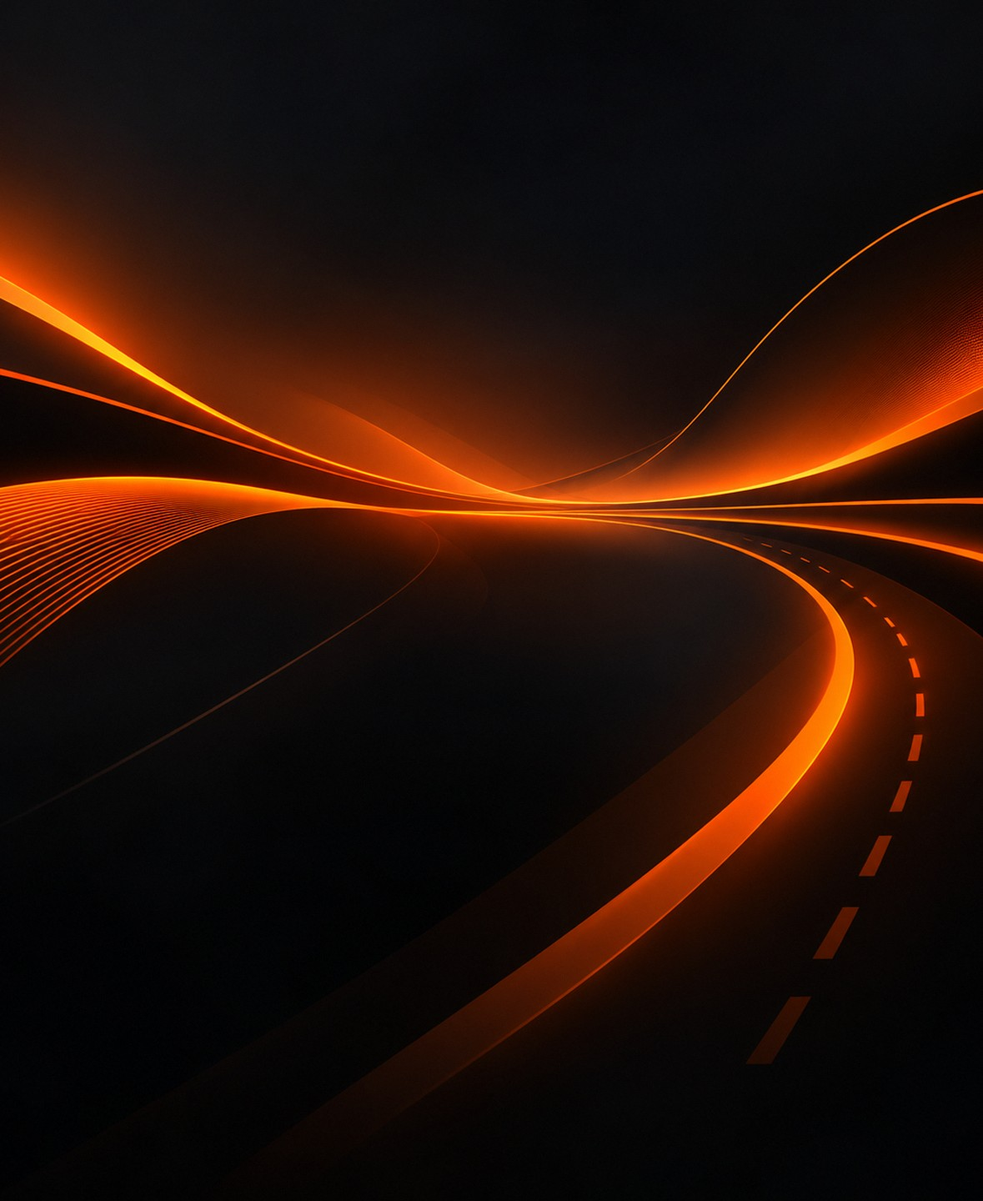
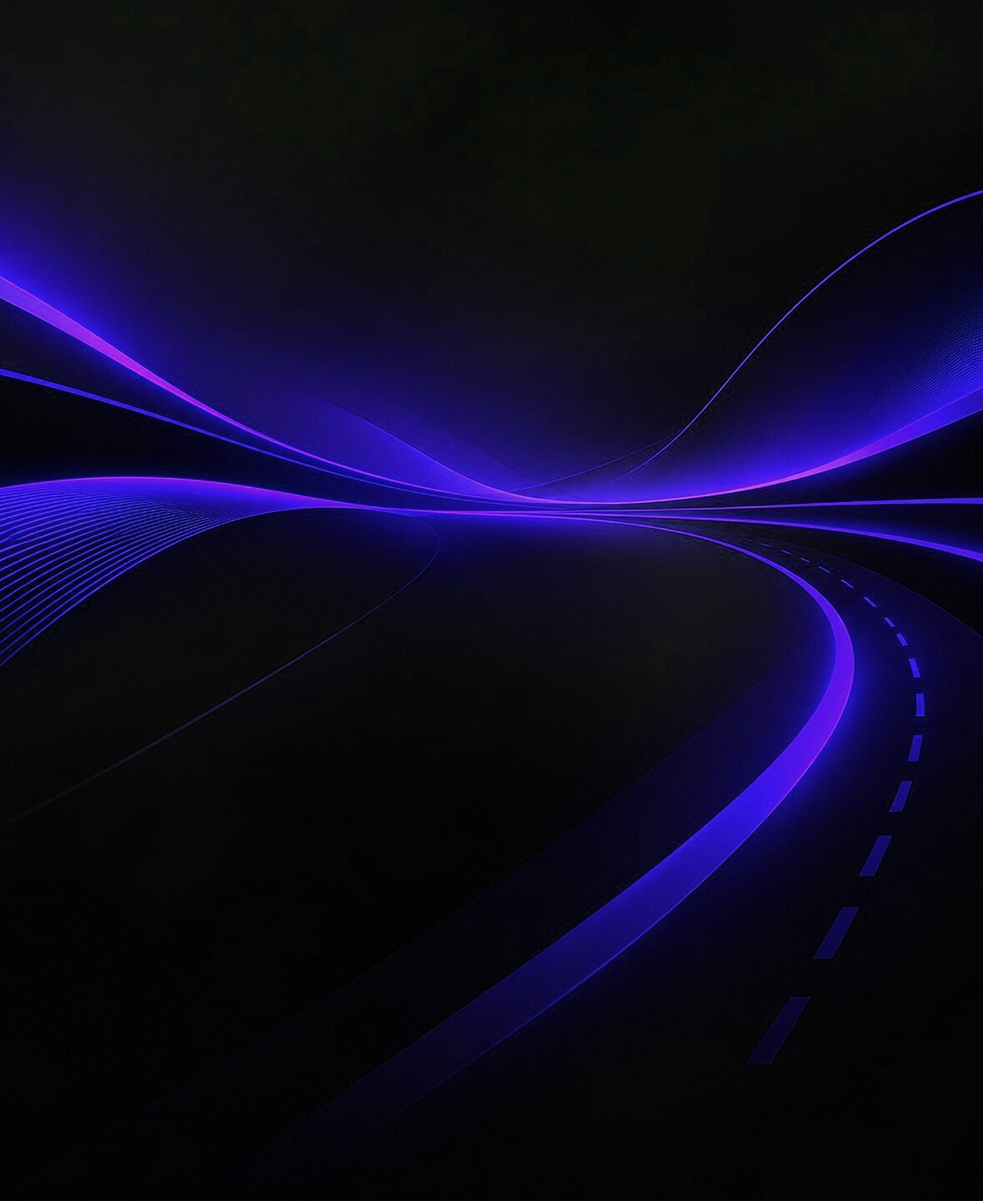
Farben der lila Vorlage in der ganzen App
Hauptlila #8C7AE6, Dunkellila #6D5BC9, Helllila #B4A8F4, Hintergrund #F4F2FC,
Kartenrand #E1DDF0, Text #2E2650, Sekundärtext #6E6888. Kein Orange mehr:
Signalfarbe, Verläufe, helle Farbwelt, Website-Akzent, fest eingetragene
Orangetöne, Lichtgrund und das Profil-Hintergrundbild (umgefärbt). Profilbild
ohne Foto lila, gesperrte Knöpfe lila-grau.

Claude-Session: https://claude.ai/code/session_01SLhREvuLjiee512FKLama7

diff --git a/theorie-app/src/components/live-quiz.tsx b/theorie-app/src/components/live-quiz.tsx
@@ -368,7 +368,7 @@ export function AntwortZeile({
   // Gewählt: ruhig – oranger Rand, leicht getönt, kein Leuchten und kein Hüpfen (die Zeile bleibt gleich groß).
   const gewaehlt = zustand === "gewaehlt";
   const rand = gewaehlt ? farben.orange : zustand === "richtig" || zustand === "verpasst" ? GRUEN : zustand === "falsch" ? ROT : "rgba(255,255,255,0.1)";
-  const grund = gewaehlt ? "rgba(252,91,14,0.14)" : zustand === "richtig" ? "rgba(78,208,83,0.1)" : zustand === "falsch" ? "rgba(255,90,78,0.1)" : "rgba(255,255,255,0.06)";
+  const grund = gewaehlt ? "rgba(140,122,230,0.14)" : zustand === "richtig" ? "rgba(78,208,83,0.1)" : zustand === "falsch" ? "rgba(255,90,78,0.1)" : "rgba(255,255,255,0.06)";
   const balken = balkenFarbe ?? (zustand === "richtig" || zustand === "verpasst" ? "rgba(78,208,83,0.28)" : zustand === "falsch" ? "rgba(255,90,78,0.24)" : "rgba(255,255,255,0.1)");
 
   return (
@@ -448,7 +448,7 @@ export function Erklaerung({ text }: { text: string }) {
   if (!text) return null;
   return (
     <View style={{ flexDirection: "row", gap: 12, paddingVertical: 2 }}>
-      <LinearGradient colors={["#FFB25C", "#FC5B0E"]} style={{ width: 3, borderRadius: 2 }} />
+      <LinearGradient colors={["#FFB25C", "#8C7AE6"]} style={{ width: 3, borderRadius: 2 }} />
       <View style={{ flex: 1, gap: 4 }}>
         <View style={{ flexDirection: "row", alignItems: "center", gap: 5 }}>
           <Icon name="bulb" size={13} color="#FFB27A" />
@@ -525,9 +525,9 @@ export function RanglistenZeile({ platz, name, bildPfad, farbe, punkte, wert, ic
         paddingLeft: 10,
         paddingRight: 14,
         borderRadius: 14,
-        backgroundColor: ich ? "rgba(252,91,14,0.15)" : "rgba(255,255,255,0.05)",
+        backgroundColor: ich ? "rgba(140,122,230,0.15)" : "rgba(255,255,255,0.05)",
         borderWidth: 1,
-        borderColor: ich ? "rgba(252,91,14,0.55)" : "rgba(255,255,255,0.07)",
+        borderColor: ich ? "rgba(140,122,230,0.55)" : "rgba(255,255,255,0.07)",
       }}
     >
       <Text style={{ ...schrift.textFett, width: 24, textAlign: "center", fontSize: 13.5, color: "rgba(255,255,255,0.65)" }}>{platz}</Text>
@@ -550,7 +550,7 @@ function DeinPlatz({ stand }: { stand: QuizStand }) {
         ))}
       </View>
       <View style={[{ borderRadius: 18 }, leuchten(farben.orange, 0.3, 14, 2)]}>
-        <LinearGradient colors={["rgba(252,91,14,0.24)", "rgba(252,91,14,0.08)"]} start={{ x: 0, y: 0 }} end={{ x: 1, y: 1 }} style={{ flexDirection: "row", alignItems: "center", gap: 12, paddingVertical: 10, paddingLeft: 10, paddingRight: 16, borderRadius: 18, borderWidth: 1, borderColor: "rgba(252,91,14,0.5)" }}>
+        <LinearGradient colors={["rgba(140,122,230,0.24)", "rgba(140,122,230,0.08)"]} start={{ x: 0, y: 0 }} end={{ x: 1, y: 1 }} style={{ flexDirection: "row", alignItems: "center", gap: 12, paddingVertical: 10, paddingLeft: 10, paddingRight: 16, borderRadius: 18, borderWidth: 1, borderColor: "rgba(140,122,230,0.5)" }}>
           <LinearGradient colors={verlauf.knopf} start={{ x: 0, y: 0 }} end={{ x: 1, y: 1 }} style={{ width: 40, height: 40, borderRadius: 20, alignItems: "center", justifyContent: "center" }}>
             <Text style={{ ...schrift.titel, fontSize: stand.platz > 99 ? 13 : 16, color: "#FFFFFF", fontVariant: ["tabular-nums"] }}>{stand.platz}</Text>
           </LinearGradient>
@@ -748,7 +748,7 @@ export function QuizZuschauerKarte({
 /** Kleine Pille „+12 XP“ fürs Mitspielen. */
 export function XpPille({ xp }: { xp: number }) {
   return (
-    <View style={{ flexDirection: "row", alignItems: "center", gap: 3, height: 24, paddingHorizontal: 9, borderRadius: 12, backgroundColor: "rgba(252,91,14,0.16)" }}>
+    <View style={{ flexDirection: "row", alignItems: "center", gap: 3, height: 24, paddingHorizontal: 9, borderRadius: 12, backgroundColor: "rgba(140,122,230,0.16)" }}>
       <Icon name="flash" size={12} color={farben.orange} />
       <Text style={{ ...schrift.textFett, fontSize: 12.5, color: farben.orange }}>+{xp} XP</Text>
     </View>
@@ -849,7 +849,7 @@ export function QuizGastgeberKarte({
                       zustand={!offen && richtig ? "richtig" : "offen"}
                       loesung={offen && richtig}
                       anteil={teilnehmer ? stimmen / teilnehmer : 0}
-                      balkenFarbe={offen ? "rgba(252,91,14,0.3)" : undefined}
+                      balkenFarbe={offen ? "rgba(140,122,230,0.3)" : undefined}
                       rechts={offen ? String(stimmen) : `${prozent(stimmen, teilnehmer)} %`}
                     />
                   );
@@ -921,7 +921,7 @@ function MiniBild({ frage }: { frage: Frage }) {
     );
   }
   return (
-    <View style={[kachel, { backgroundColor: "rgba(252,91,14,0.14)" }]}>
+    <View style={[kachel, { backgroundColor: "rgba(140,122,230,0.14)" }]}>
       <Icon name={themaVon(frage.thema).icon} size={20} color="#FF8A2A" />
     </View>
   );
@@ -997,7 +997,7 @@ export function QuizAuswahl({
       <KeyboardAvoidingView behavior={Platform.OS === "ios" ? "padding" : undefined} style={{ flex: 1, justifyContent: "flex-end" }}>
         <Pressable style={{ flex: 1 }} onPress={onSchliessen} accessibilityLabel="Schließen" />
         <View style={{ height: Math.round(height * 0.8), backgroundColor: "#0E1014", borderTopLeftRadius: 28, borderTopRightRadius: 28, borderWidth: 1, borderBottomWidth: 0, borderColor: "rgba(255,255,255,0.09)", overflow: "hidden" }}>
-          <LinearGradient pointerEvents="none" colors={["rgba(252,91,14,0.16)", "rgba(252,91,14,0)"]} style={{ position: "absolute", top: 0, left: 0, right: 0, height: 140 }} />
+          <LinearGradient pointerEvents="none" colors={["rgba(140,122,230,0.16)", "rgba(140,122,230,0)"]} style={{ position: "absolute", top: 0, left: 0, right: 0, height: 140 }} />
           <View style={{ alignSelf: "center", width: 38, height: 5, borderRadius: 3, backgroundColor: "rgba(255,255,255,0.22)", marginTop: 8 }} />
 
           {vorschau && vorschau.art === "auswahl" ? (

diff --git a/theorie-app/src/app/schilder-jagd.tsx b/theorie-app/src/app/schilder-jagd.tsx
@@ -85,7 +85,7 @@ function SchilderJagdHandy() {
         <GlasKarte style={{ borderRadius: 26 }}>
           <View style={{ padding: 18, gap: 16 }}>
             <View style={{ flexDirection: "row", alignItems: "center", gap: 14 }}>
-              <View style={{ width: 48, height: 48, borderRadius: 24, alignItems: "center", justifyContent: "center", backgroundColor: mitDeckkraft(komplett ? "#4ED053" : "#FC5B0E", f.hell ? 0.1 : 0.15) }}>
+              <View style={{ width: 48, height: 48, borderRadius: 24, alignItems: "center", justifyContent: "center", backgroundColor: mitDeckkraft(komplett ? "#4ED053" : "#8C7AE6", f.hell ? 0.1 : 0.15) }}>
                 {komplett ? <TrophyIcon size={24} color={gruen} weight="fill" /> : <CrosshairIcon size={24} color={f.orange} weight="fill" />}
               </View>
               <View style={{ flex: 1 }}>
@@ -132,7 +132,7 @@ function SchilderJagdHandy() {
               })}
             </View>
 
-            <Pressable onPress={scannen} accessibilityRole="button" accessibilityLabel="Schild scannen" style={({ pressed }) => [{ height: 54, borderRadius: 27, transform: [{ scale: pressed ? 0.98 : 1 }] }, leuchten("#FC5B0E", f.hell ? 0.3 : 0.45, 14, 4)]}>
+            <Pressable onPress={scannen} accessibilityRole="button" accessibilityLabel="Schild scannen" style={({ pressed }) => [{ height: 54, borderRadius: 27, transform: [{ scale: pressed ? 0.98 : 1 }] }, leuchten("#8C7AE6", f.hell ? 0.3 : 0.45, 14, 4)]}>
               <LinearGradient colors={verlauf.knopf} start={{ x: 0, y: 0.5 }} end={{ x: 1, y: 0.5 }} style={{ flex: 1, borderRadius: 27, flexDirection: "row", alignItems: "center", justifyContent: "center", gap: 10 }}>
                 <CameraIcon size={22} color="#FFFFFF" weight="fill" />
                 <Text style={{ ...schrift.textFett, fontSize: 16.5, color: "#FFFFFF" }}>Schild scannen</Text>
@@ -278,7 +278,7 @@ function SchilderJagdHandy() {
                 </View>
               </View>
               {stand.schilder[offen.key] ? (
-                <View style={{ flexDirection: "row", alignItems: "center", gap: 6, height: 28, paddingHorizontal: 12, borderRadius: 14, backgroundColor: mitDeckkraft("#FC5B0E", f.hell ? 0.1 : 0.16) }}>
+                <View style={{ flexDirection: "row", alignItems: "center", gap: 6, height: 28, paddingHorizontal: 12, borderRadius: 14, backgroundColor: mitDeckkraft("#8C7AE6", f.hell ? 0.1 : 0.16) }}>
                   <CheckCircleIcon size={15} color={f.orange} weight="fill" />
                   <Text style={{ ...schrift.textHalb, fontSize: 13, color: f.orange }}>Gefunden am {datumLang(new Date(stand.schilder[offen.key]))}</Text>
                 </View>
@@ -297,7 +297,7 @@ function SchilderJagdHandy() {
                 </T>
               </View>
               <View style={{ alignSelf: "stretch", flexDirection: "row", alignItems: "flex-start", gap: 12, padding: 14, borderRadius: 18, backgroundColor: f.hell ? "#F6F2EC" : "rgba(255,255,255,0.05)" }}>
-                <View style={{ width: 34, height: 34, borderRadius: 17, alignItems: "center", justifyContent: "center", backgroundColor: mitDeckkraft("#FC5B0E", f.hell ? 0.1 : 0.15) }}>
+                <View style={{ width: 34, height: 34, borderRadius: 17, alignItems: "center", justifyContent: "center", backgroundColor: mitDeckkraft("#8C7AE6", f.hell ? 0.1 : 0.15) }}>
                   <MapPinIcon size={18} color={f.orange} weight="fill" />
                 </View>
                 <View style={{ flex: 1, gap: 2 }}>

diff --git a/theorie-app/src/components/profil.tsx b/theorie-app/src/components/profil.tsx
@@ -114,7 +114,7 @@ export function Fuehrerscheinweg({
         style,
       ]}
     >
-      {f.hell ? null : <LinearGradient colors={["rgba(252,91,14,0.10)", "rgba(252,91,14,0)"]} locations={[0, 0.6]} style={FUELLEN} />}
+      {f.hell ? null : <LinearGradient colors={["rgba(140,122,230,0.10)", "rgba(140,122,230,0)"]} locations={[0, 0.6]} style={FUELLEN} />}
       <View style={{ flexDirection: "row", alignItems: "flex-start", paddingHorizontal: 18, paddingTop: 16 }}>
         <View style={{ flex: 1, gap: 3 }}>
           <Text style={{ ...schrift.titelFett, fontSize: 17, color: f.text }}>Dein Weg zum Führerschein</Text>
@@ -135,7 +135,7 @@ export function Fuehrerscheinweg({
           {meilensteine.map((s, k) => {
             const p = punktBei(lage[k]);
             return s.erreicht ? (
-              <Circle key={k} cx={p.x} cy={p.y} r={10} fill="#FC5B0E" stroke="#FFFFFF" strokeWidth={2} />
+              <Circle key={k} cx={p.x} cy={p.y} r={10} fill="#8C7AE6" stroke="#FFFFFF" strokeWidth={2} />
             ) : (
               <Circle key={k} cx={p.x} cy={p.y} r={9} fill={f.flaeche} stroke={f.hell ? "#B9BEC5" : "#5C636C"} strokeWidth={2} />
             );
@@ -170,8 +170,8 @@ export function Fuehrerscheinweg({
         })}
 
         {/* Das eigene Auto */}
-        <View pointerEvents="none" style={[{ position: "absolute", left: auto.x - 18, top: auto.y - 18, width: 36, height: 36, borderRadius: 18 }, leuchten("#FC5B0E", 0.6, 12, 0)]}>
-          <LinearGradient colors={["#FF9A3C", "#FC5B0E", "#E4470A"]} style={{ flex: 1, borderRadius: 18, borderWidth: 2, borderColor: "#FFFFFF", alignItems: "center", justifyContent: "center" }}>
+        <View pointerEvents="none" style={[{ position: "absolute", left: auto.x - 18, top: auto.y - 18, width: 36, height: 36, borderRadius: 18 }, leuchten("#8C7AE6", 0.6, 12, 0)]}>
+          <LinearGradient colors={["#FF9A3C", "#8C7AE6", "#E4470A"]} style={{ flex: 1, borderRadius: 18, borderWidth: 2, borderColor: "#FFFFFF", alignItems: "center", justifyContent: "center" }}>
             <Icon name="car" sf="car.fill" size={17} color="#FFFFFF" />
           </LinearGradient>
         </View>
@@ -203,7 +203,7 @@ export function Medaillen({ medaillen, onPress, umbrechen }: { medaillen: Medail
           style={({ pressed }) => ({ width: 96, alignItems: "center", gap: 8, paddingTop: 6, transform: [{ scale: pressed ? 0.95 : 1 }] })}
         >
           {m.erreicht ? (
-            <View style={[{ width: 70, height: 70, borderRadius: 35 }, leuchten("#FC5B0E", f.hell ? 0.3 : 0.5, 12, 3)]}>
+            <View style={[{ width: 70, height: 70, borderRadius: 35 }, leuchten("#8C7AE6", f.hell ? 0.3 : 0.5, 12, 3)]}>
               <LinearGradient colors={["#FFC065", "#FC6A14", "#D8430A"]} locations={[0, 0.55, 1]} style={{ flex: 1, borderRadius: 35, alignItems: "center", justifyContent: "center" }}>
                 <View style={{ position: "absolute", top: 4, left: 4, right: 4, bottom: 4, borderRadius: 31, borderWidth: 1.5, borderColor: "rgba(255,255,255,0.45)" }} />
                 <Icon name={m.icon} size={29} color="#FFFFFF" />

diff --git a/theorie-app/src/lib/theme.ts b/theorie-app/src/lib/theme.ts
@@ -22,14 +22,15 @@ export const farben = {
 
   // Orange aus der Vorlage gemessen: kräftiges Rot-Orange für Knöpfe, Ring
   // und Tab-Leiste, wärmeres Orange für Punkte, Balken und Flamme.
-  orange: "#FC5B0E",
-  orangeHell: "#F97A1A",
-  orangeTief: "#F8470D",
-  orangeSoft: "rgba(252,91,14,0.15)",
-  orangeLinie: "rgba(252,91,14,0.6)",
-  orangeDunkel: "#2A1A0B",
+  // Hauptfarbe ist Lila (Name „orange“ bleibt, damit alle Stellen sie finden).
+  orange: "#8C7AE6",
+  orangeHell: "#B4A8F4",
+  orangeTief: "#6D5BC9",
+  orangeSoft: "rgba(140,122,230,0.16)",
+  orangeLinie: "rgba(140,122,230,0.6)",
+  orangeDunkel: "#1F1B45",
   aufOrange: "#FFFFFF",
-  flamme: "#FC6F14",
+  flamme: "#8C7AE6",
 
   blau: "#4DA3FF",
   blauSoft: "rgba(77,163,255,0.14)",
@@ -69,21 +70,21 @@ export const farben = {
 /** Orange Verläufe, Element für Element aus der Vorlage gemessen. */
 export const verlauf = {
   /** Große Knöpfe, von oben nach unten: oben heller, unten tiefer. */
-  knopf: ["#FE7212", "#FC5D0D", "#F9490D"],
+  knopf: ["#9C8CEC", "#8C7AE6", "#7B68DA"],
   /** Heller Schein am linken Ende von „Lernen starten“, von links nach rechts. */
-  knopfSchein: ["rgba(255,150,60,0.68)", "rgba(255,150,60,0.4)", "rgba(255,150,60,0.06)", "rgba(255,150,60,0)"],
+  knopfSchein: ["rgba(180,168,244,0.6)", "rgba(180,168,244,0.35)", "rgba(180,168,244,0.06)", "rgba(180,168,244,0)"],
   /** Aktiver Filter-Chip, von links nach rechts. */
-  chip: ["#FC8A22", "#FC6C12", "#FC540B"],
+  chip: ["#9C8CEC", "#8C7AE6", "#7B68DA"],
   /** Aktives Segment, von links nach rechts. */
-  segment: ["#FD8A25", "#FC6619"],
+  segment: ["#9C8CEC", "#8C7AE6"],
   /** Fortschrittsbalken auf der Startseite, von links nach rechts. */
-  balken: ["#FB5412", "#FE6616"],
+  balken: ["#8C7AE6", "#9C8CEC"],
   /** Balken in den Kategorien, von links nach rechts. */
-  kategorie: ["#FC7822", "#FD711C"],
+  kategorie: ["#8C7AE6", "#9C8CEC"],
   /** Säulen im Diagramm, von oben nach unten. */
-  saeule: ["#FCA422", "#FE8E12", "#FC6A0C", "#F9570A"],
+  saeule: ["#B4A8F4", "#9C8CEC", "#8C7AE6", "#6D5BC9"],
   /** Großer Ring in der Statistik, von oben nach unten. */
-  ring: ["#FE8324", "#FD5406"],
+  ring: ["#9C8CEC", "#6D5BC9"],
 } as const;
 
 type Gewicht = "400" | "500" | "600" | "700" | "800";

diff --git a/theorie-app/src/app/einstellungen.tsx b/theorie-app/src/app/einstellungen.tsx
@@ -402,9 +402,9 @@ function DarstellungKachel({ art, aktiv, onPress }: { art: "dunkel" | "hell"; ak
       accessibilityRole="button"
       accessibilityState={{ selected: aktiv }}
       accessibilityLabel={dunkel ? "Nachtfahrt, dunkel" : "Tagfahrt, hell"}
-      style={({ pressed }) => [{ flex: 1, borderRadius: 22, transform: [{ scale: pressed ? 0.97 : 1 }] }, aktiv ? leuchten("#FC5B0E", f.hell ? 0.3 : 0.45, 12, 3) : null]}
+      style={({ pressed }) => [{ flex: 1, borderRadius: 22, transform: [{ scale: pressed ? 0.97 : 1 }] }, aktiv ? leuchten("#8C7AE6", f.hell ? 0.3 : 0.45, 12, 3) : null]}
     >
-      <View style={{ borderRadius: 22, overflow: "hidden", borderWidth: 2, borderColor: aktiv ? "#FC5B0E" : f.hell ? "rgba(20,23,27,0.08)" : "rgba(255,255,255,0.1)" }}>
+      <View style={{ borderRadius: 22, overflow: "hidden", borderWidth: 2, borderColor: aktiv ? "#8C7AE6" : f.hell ? "rgba(20,23,27,0.08)" : "rgba(255,255,255,0.1)" }}>
         {/* Mini-Vorschau der App in dieser Darstellung */}
         <LinearGradient colors={dunkel ? ["#1A2230", "#07090C"] : ["#FFFFFF", "#ECE6DC"]} style={{ height: 96, padding: 12, gap: 6 }}>
           <View style={{ flexDirection: "row", alignItems: "center", justifyContent: "space-between" }}>
@@ -422,7 +422,7 @@ function DarstellungKachel({ art, aktiv, onPress }: { art: "dunkel" | "hell"; ak
             <Text style={{ ...schrift.textHalb, fontSize: 14.5, color: f.text }}>{dunkel ? "Nachtfahrt" : "Tagfahrt"}</Text>
             <Text style={{ ...schrift.text, fontSize: 12, color: f.text3 }}>{dunkel ? "Dunkel" : "Hell"}</Text>
           </View>
-          <View style={{ width: 22, height: 22, borderRadius: 11, alignItems: "center", justifyContent: "center", backgroundColor: aktiv ? "#FC5B0E" : "transparent", borderWidth: aktiv ? 0 : 2, borderColor: f.hell ? "rgba(20,23,27,0.2)" : "rgba(255,255,255,0.25)" }}>
+          <View style={{ width: 22, height: 22, borderRadius: 11, alignItems: "center", justifyContent: "center", backgroundColor: aktiv ? "#8C7AE6" : "transparent", borderWidth: aktiv ? 0 : 2, borderColor: f.hell ? "rgba(20,23,27,0.2)" : "rgba(255,255,255,0.25)" }}>
             {aktiv ? <Icon name="checkmark" size={14} color="#FFFFFF" /> : null}
           </View>
         </View>

diff --git a/theorie-app/src/app/(tabs)/profil.tsx b/theorie-app/src/app/(tabs)/profil.tsx
@@ -151,7 +151,7 @@ function ProfilHandy() {
         { icon: "checkmark-circle", sf: "checkmark.circle.fill", farbe: "#4ED053", label: "Antworten", wert: tausender(gesamtZahlen.antworten), mini: { art: "balken", werte: letzteTage.map((t) => stand.antwortenTage[t] ?? 0) }, unter: "Letzte 7 Tage" },
         {
           icon: "flame",
-          farbe: "#FC6F14",
+          farbe: "#8C7AE6",
           label: "Beste Serie",
           wert: `${stand.besteSerie}`,
           einheit: stand.besteSerie === 1 ? "Tag" : "Tage",
@@ -192,7 +192,7 @@ function ProfilHandy() {
     <MenueZeile key="formeln" icon="calculator" farbe="#E0A100" titel="Formeln" unter="Anhalteweg & Co." onPress={() => router.push("/formeln")} />,
   ];
   const mehrZeilen = FRAGEN_AKTIV ? [
-    <MenueZeile key="fortschritt" icon="stats-chart" farbe="#FC5B0E" titel="Mein Fortschritt" unter="Statistiken, Stärken & Schwächen" onPress={() => router.push("/statistik")} />,
+    <MenueZeile key="fortschritt" icon="stats-chart" farbe="#8C7AE6" titel="Mein Fortschritt" unter="Statistiken, Stärken & Schwächen" onPress={() => router.push("/statistik")} />,
     <MenueZeile
       key="schilder"
       icon="camera"
@@ -224,7 +224,7 @@ function ProfilHandy() {
   const kontoGruppe = (
     <MenueGruppe>
       <MenueZeile icon="settings-outline" farbe="#7C838C" titel="Einstellungen & Konto" unter={gast ? "Gastmodus" : undefined} onPress={() => router.push("/einstellungen")} />
-      <MenueZeile icon="diamond-outline" farbe="#FC5B0E" titel="Premium" unter="Bald verfügbar" onPress={() => router.push("/premium")} />
+      <MenueZeile icon="diamond-outline" farbe="#8C7AE6" titel="Premium" unter="Bald verfügbar" onPress={() => router.push("/premium")} />
       <MenueZeile icon="images-outline" farbe="#E0A100" titel="Bildnachweise" onPress={() => router.push("/bildnachweise")} />
       <MenueZeile icon="document-text-outline" farbe="#7C838C" titel="Impressum" onPress={() => router.push("/impressum")} />
       <MenueZeile icon="shield-checkmark-outline" farbe="#4DA3FF" titel="Datenschutz" onPress={() => router.push("/datenschutz")} />

diff --git a/theorie-app/src/components/live-rad.tsx b/theorie-app/src/components/live-rad.tsx
@@ -351,7 +351,7 @@ export function ThemenRad({
 
       <View pointerEvents="box-none" style={{ flex: 1, paddingTop: oben + 10, alignItems: "center" }}>
         {/* Kopf */}
-        <View style={{ flexDirection: "row", alignItems: "center", gap: 6, height: 30, paddingHorizontal: 12, borderRadius: 15, backgroundColor: "rgba(252,91,14,0.16)", borderWidth: 1, borderColor: "rgba(252,91,14,0.45)" }}>
+        <View style={{ flexDirection: "row", alignItems: "center", gap: 6, height: 30, paddingHorizontal: 12, borderRadius: 15, backgroundColor: "rgba(140,122,230,0.16)", borderWidth: 1, borderColor: "rgba(140,122,230,0.45)" }}>
           <Icon name="sparkles" size={13} color={ORANGE_HELL} />
           <Text style={{ ...schrift.textFett, fontSize: 12, letterSpacing: 1.6, color: ORANGE_HELL }}>THEMENRAD</Text>
         </View>
@@ -410,7 +410,7 @@ export function ThemenRad({
           <RNAnimated.View style={{ alignItems: "center", opacity: ergebnis, transform: [{ scale: ergebnis.interpolate({ inputRange: [0, 1], outputRange: [0.6, 1] }) }] }}>
             {fertig ? (
               <>
-                <Text style={{ ...schrift.titel, fontSize: 34, letterSpacing: 0.5, color: "#FFFFFF", textShadowColor: "rgba(252,91,14,0.85)", textShadowRadius: 22, textAlign: "center" }}>{radName(thema).toUpperCase()}</Text>
+                <Text style={{ ...schrift.titel, fontSize: 34, letterSpacing: 0.5, color: "#FFFFFF", textShadowColor: "rgba(140,122,230,0.85)", textShadowRadius: 22, textAlign: "center" }}>{radName(thema).toUpperCase()}</Text>
                 <Text style={{ ...schrift.textHalb, fontSize: 14, color: "rgba(255,255,255,0.72)", marginTop: 4, textAlign: "center" }}>{gastgeber ? "Starte eine Frage aus diesem Thema" : "Gleich kommt eine Frage aus diesem Thema"}</Text>
               </>
             ) : null}

diff --git a/theorie-app/src/app/creator-bewerbung.tsx b/theorie-app/src/app/creator-bewerbung.tsx
@@ -206,14 +206,14 @@ function Schritt({ titel, zeit, art, farbe, letzter, kreuz }: { titel: string; z
             borderRadius: 12,
             alignItems: "center",
             justifyContent: "center",
-            backgroundColor: art === "fertig" ? farbe : art === "jetzt" ? mitDeckkraft(farbe.startsWith("#") ? farbe : "#FC5B0E", 0.16) : "transparent",
+            backgroundColor: art === "fertig" ? farbe : art === "jetzt" ? mitDeckkraft(farbe.startsWith("#") ? farbe : "#8C7AE6", 0.16) : "transparent",
             borderWidth: art === "fertig" ? 0 : 2,
             borderColor: art === "jetzt" ? farbe : leer,
           }}
         >
           {art === "fertig" ? kreuz ? <XIcon size={12} color="#FFFFFF" weight="bold" /> : <CheckIcon size={13} color="#FFFFFF" weight="bold" /> : art === "jetzt" ? <View style={{ width: 8, height: 8, borderRadius: 4, backgroundColor: farbe }} /> : null}
         </View>
-        {letzter ? null : <View style={{ flex: 1, width: 2, minHeight: 22, marginVertical: 4, borderRadius: 1, backgroundColor: art === "fertig" ? mitDeckkraft(farbe.startsWith("#") ? farbe : "#FC5B0E", 0.45) : leer }} />}
+        {letzter ? null : <View style={{ flex: 1, width: 2, minHeight: 22, marginVertical: 4, borderRadius: 1, backgroundColor: art === "fertig" ? mitDeckkraft(farbe.startsWith("#") ? farbe : "#8C7AE6", 0.45) : leer }} />}
       </View>
       <View style={{ flex: 1, paddingBottom: letzter ? 0 : 18, gap: 1 }}>
         <Text style={{ ...schrift.textHalb, fontSize: 15.5, lineHeight: 22, color: art === "offen" ? f.text3 : f.text }}>{titel}</Text>

diff --git a/theorie-app/src/components/karteikarte.tsx b/theorie-app/src/components/karteikarte.tsx
@@ -99,7 +99,7 @@ function Vorderseite({ inhalt, eng }: { inhalt: KartenInhalt; eng: boolean }) {
 function Merke({ text }: { text: string }) {
   const f = useFarbwelt();
   return (
-    <View style={{ padding: 14, borderRadius: 18, gap: 2, backgroundColor: f.hell ? "#FBF6EF" : "rgba(255,255,255,0.04)", borderWidth: 1, borderColor: f.hell ? "rgba(242,84,10,0.14)" : "rgba(255,255,255,0.07)" }}>
+    <View style={{ padding: 14, borderRadius: 18, gap: 2, backgroundColor: f.hell ? "#FBF6EF" : "rgba(255,255,255,0.04)", borderWidth: 1, borderColor: f.hell ? "rgba(140,122,230,0.14)" : "rgba(255,255,255,0.07)" }}>
       <T v="text" farbe={f.orange} style={{ fontFamily: handschrift, fontSize: 24, lineHeight: 29 }}>
         Merke dir
       </T>
@@ -256,7 +256,7 @@ export function FlipKarte({
       >
         <View style={{ flex: 1, borderRadius: 28, overflow: "hidden" }}>
         <LinearGradient
-          colors={hinten ? (f.hell ? ["rgba(35,165,72,0.09)", "rgba(35,165,72,0)"] : ["rgba(78,208,83,0.10)", "rgba(78,208,83,0)"]) : f.hell ? ["rgba(242,84,10,0.06)", "rgba(242,84,10,0)"] : ["rgba(255,255,255,0.06)", "rgba(255,255,255,0)"]}
+          colors={hinten ? (f.hell ? ["rgba(35,165,72,0.09)", "rgba(35,165,72,0)"] : ["rgba(78,208,83,0.10)", "rgba(78,208,83,0)"]) : f.hell ? ["rgba(140,122,230,0.06)", "rgba(140,122,230,0)"] : ["rgba(255,255,255,0.06)", "rgba(255,255,255,0)"]}
           locations={[0, 0.55]}
           style={{ position: "absolute", top: 0, left: 0, right: 0, bottom: 0 }}
           pointerEvents="none"

diff --git a/theorie-app/src/components/lernen.tsx b/theorie-app/src/components/lernen.tsx
@@ -119,7 +119,7 @@ export function SuchPille({ onPress, style }: { onPress: () => void; style?: Sty
 export function LernStand({ sicher, fehler, neu, onPress }: { sicher: number; fehler: number; neu: number; onPress: () => void }) {
   const f = useFarbwelt();
   const gruen = f.hell ? "#23A548" : "#4ED053";
-  const orange = f.hell ? "#F2540A" : "#FF8A2A";
+  const orange = f.hell ? "#8C7AE6" : "#FF8A2A";
   const grau = f.hell ? "rgba(20,23,27,0.18)" : "rgba(255,255,255,0.22)";
   const teile = [
     { wert: sicher, farbe: gruen, label: "sicher" },
@@ -435,7 +435,7 @@ export function GrundstoffKarte({ anzahl, anteil, onPress, style }: { anzahl: nu
             <Balken anteil={anteil} hoehe={6} />
           </View>
         </View>
-        <View style={[{ position: "absolute", right: 16, bottom: 16, width: 50, height: 50, borderRadius: 25, overflow: "hidden" }, leuchten("#FC5B0E", 0.5, 12, 3)]}>
+        <View style={[{ position: "absolute", right: 16, bottom: 16, width: 50, height: 50, borderRadius: 25, overflow: "hidden" }, leuchten("#8C7AE6", 0.5, 12, 3)]}>
           <LinearGradient colors={verlauf.knopf} style={{ flex: 1, alignItems: "center", justifyContent: "center" }}>
             <Icon name="play" size={21} color="#FFFFFF" />
           </LinearGradient>

diff --git a/theorie-app/src/app/_layout.tsx b/theorie-app/src/app/_layout.tsx
@@ -93,7 +93,7 @@ function ErfolgHinweis() {
           borderRadius: 27,
           backgroundColor: desktop ? B.flaeche : hell ? "#FFFFFF" : "#1A2128",
           borderWidth: desktop ? 1.5 : 1,
-          borderColor: desktop ? B.linie : hell ? "rgba(242,84,10,0.22)" : "rgba(252,91,14,0.42)",
+          borderColor: desktop ? B.linie : hell ? "rgba(140,122,230,0.22)" : "rgba(140,122,230,0.42)",
         },
         desktop ? null : hell ? leuchten("#3C2C18", 0.16, 18, 6) : leuchten("#000000", 0.55, 18, 6),
       ]}
@@ -108,7 +108,7 @@ function ErfolgHinweis() {
         </LinearGradient>
       )}
       <View style={{ flexShrink: 1 }}>
-        <Text style={{ ...schrift.textFett, fontSize: 10.5, letterSpacing: 1, color: desktop ? B.orangeKante : hell ? "#F2540A" : farben.orange }}>{desktop ? "Abzeichen freigeschaltet" : "ABZEICHEN FREIGESCHALTET"}</Text>
+        <Text style={{ ...schrift.textFett, fontSize: 10.5, letterSpacing: 1, color: desktop ? B.orangeKante : hell ? "#8C7AE6" : farben.orange }}>{desktop ? "Abzeichen freigeschaltet" : "ABZEICHEN FREIGESCHALTET"}</Text>
         <Text style={{ ...schrift.textHalb, fontSize: 15, color: desktop ? B.text : hell ? "#14171B" : "#FFFFFF" }} numberOfLines={1}>
           {e.titel}
         </Text>

diff --git a/theorie-app/src/components/pruefen.tsx b/theorie-app/src/components/pruefen.tsx
@@ -41,9 +41,9 @@ export function Instrumententafel({ hoehe, lichtY, children }: { hoehe: number; 
       <Svg width={width} height={hoehe} style={{ position: "absolute" }}>
         <Defs>
           <RadialGradient id="tafelLicht" cx={width / 2} cy={lichtY} r={width * 0.72} gradientUnits="userSpaceOnUse">
-            <Stop offset="0" stopColor={f.hell ? "#FFFFFF" : "#FC5B0E"} stopOpacity={f.hell ? 1 : 0.2} />
-            <Stop offset="0.45" stopColor={f.hell ? "#FFFFFF" : "#FC5B0E"} stopOpacity={f.hell ? 0.55 : 0.06} />
-            <Stop offset="1" stopColor={f.hell ? "#FFFFFF" : "#FC5B0E"} stopOpacity={0} />
+            <Stop offset="0" stopColor={f.hell ? "#FFFFFF" : "#8C7AE6"} stopOpacity={f.hell ? 1 : 0.2} />
+            <Stop offset="0.45" stopColor={f.hell ? "#FFFFFF" : "#8C7AE6"} stopOpacity={f.hell ? 0.55 : 0.06} />
+            <Stop offset="1" stopColor={f.hell ? "#FFFFFF" : "#8C7AE6"} stopOpacity={0} />
           </RadialGradient>
           <RadialGradient id="tafelKante" cx={width / 2} cy={lichtY} r={width * 0.95} gradientUnits="userSpaceOnUse">
             <Stop offset="0.55" stopColor={f.hell ? "#D9D2C6" : "#000000"} stopOpacity={0} />
